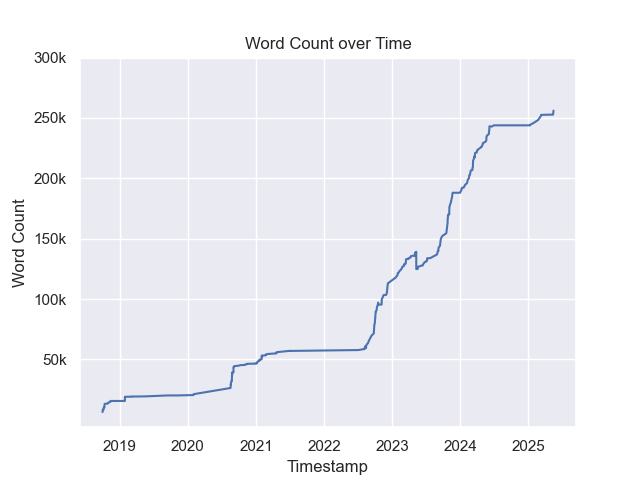
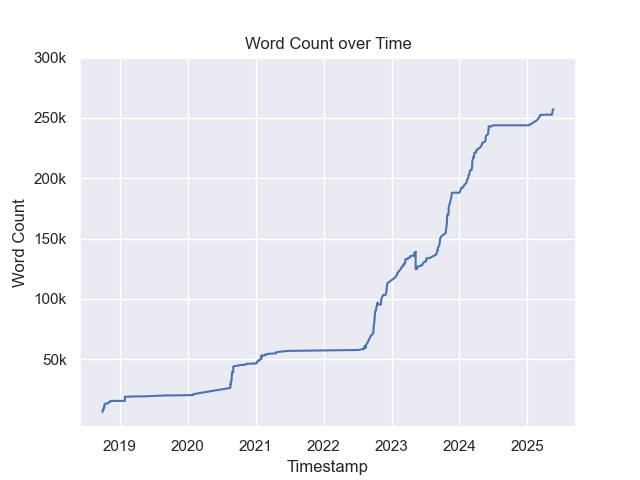
HCI 2.6

diff --git a/OMSCS/Courses/HCI/2.06 - Mental Models and Representations.md b/OMSCS/Courses/HCI/2.06 - Mental Models and Representations.md
@@ -5,3 +5,92 @@ tags:
 ---
 # 2.06 - Mental Models and Representations
 
+- internal, simulatable understanding of external reality
+- a good interface will give a good mental model of how the system works
+- representations
+- metaphors and analogies
+- user error: slips and mistakes
+- learned helplessness
+- expert blindness
+
+## Mental Models
+- expectations
+- predictions
+- mental simulation
+- Why was our mental model wrong? (Frustration)
+- Design systems that act the way the user expects them to act.
+- Teach people how the system will act.
+- Not a uniquely HCI domain.
+- Education (teach users how to use the system/interface while they're using it)
+- 5 tips
+	- predictability
+	- synthesizability
+	- familiarity
+	- generalizability
+	- consistency
+
+## Representations
+![[Pasted image 20250520222000.png]]
+
+- make relationships explicit
+- bring objects and relationships together
+- represent real world phenomenon visually
+
+![[Pasted image 20250520222449.png]]
+
+## Metaphors and Analogies
+- There are positive and negatives in analogies in design
+- Analogies make the interface more learnable, but may restrict the interface to outdated constraints
+- whenever possible
+	- leverage analogies to the real world
+	- leverage principles from past interfaces
+	- this will help the user learn the interface as quickly as they can
+- challenge
+	- Why are we designing technology if we're not providing users anything new?
+	- We want to enable people to do things they've never done before
+	- How do we teach people that they don't have to adjust their temperature anymore?
+
+## Learning Curves
+
+![[Pasted image 20250520223206.png]]
+
+- rapid learning curves are preferred
+- how do we teach people faster with less experience?
+- we start them off higher up the Y-axis by drawing on their past experiences
+	- representations
+	- affordances
+
+![[Pasted image 20250520223250.png]]
+
+## User Error - Slips and Mistakes
+- "There's no such thing as user error."
+- User error comes from poor interface design.
+
+![[Pasted image 20250520223437.png]]
+
+**types of slips**
+- action-based slips
+	- click the wrong button
+	- performed right action on wrong object
+- memory lapse = forget something they need to do
+
+**types of mistakes**
+- rule-based = right model of reality, wrong action chosen
+- knowledge-based = wrong model of reality, wrong action chosen as a result
+- memory lapse = forgetting to fully execute a plan
+
+> leverage the tolerance principle to make sure slips and mistakes aren't catastrophic
+
+## Learned Helplessness
+- principle of feedback = user learns from the output on what they should have input
+- no discernable output from a given input
+- learned helplessness
+	- user learns that they are helpless to accomplish their goal in a given interface
+	- no matter what I do, I'm doomed to failure
+	- there appears to be no mapping from input to the correct output 
+
+## Expert Blind Spot
+- when you're an expert, there's parts of the context that you do subconsciously
+- you need to teach the user how to use what you've designed, without being able to speak to them directly, using only the interface itself (and without overwhelming them with instructions)
+- need to assume the user is not an expert
+- "I am not my user."
